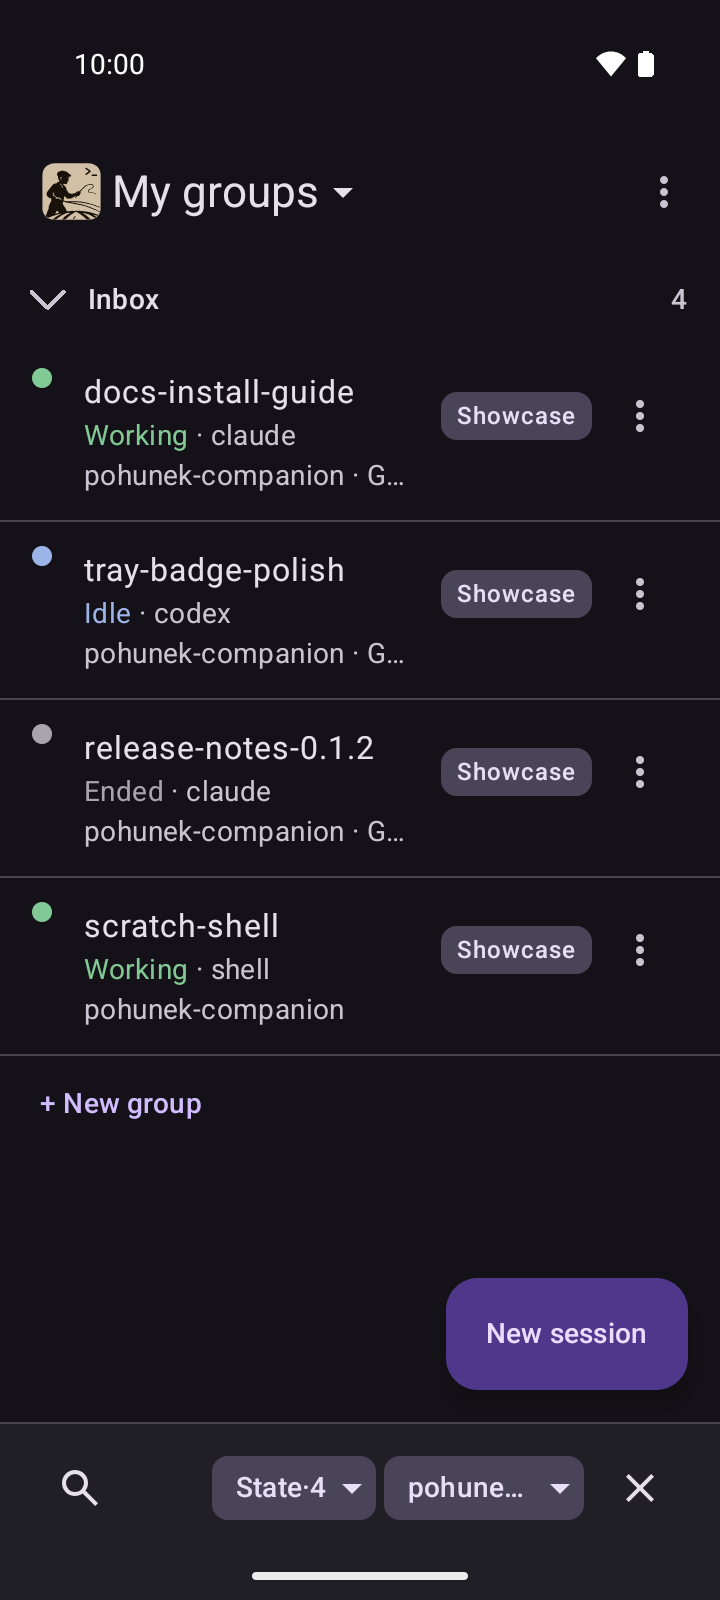
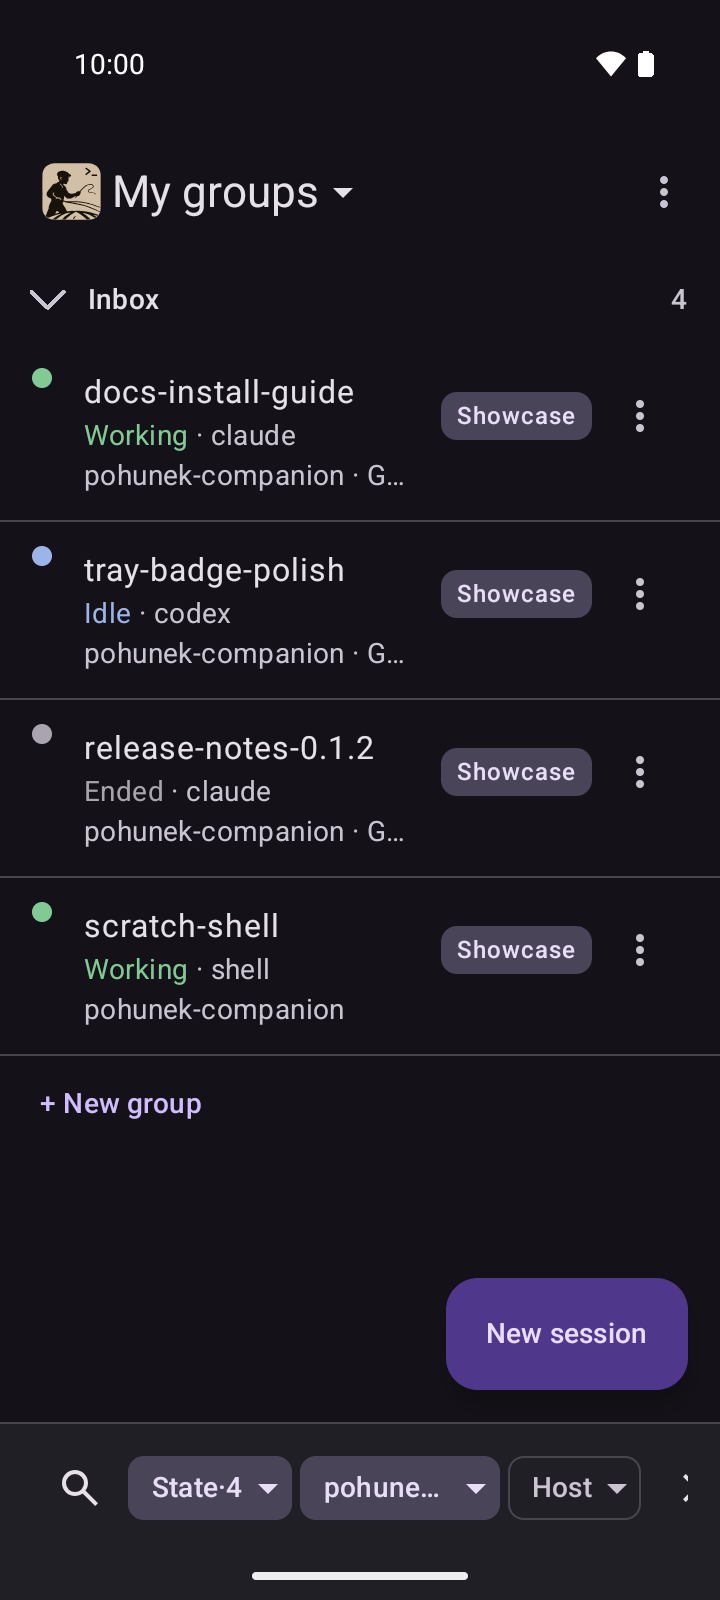
Refresh the screenshot set: two-host bar, search, project picker, terminal keys (#236)
* Capture the two-host bar, search, project picker and terminal with keys

* Relaunch the app after the search shot

* Close the project picker through All projects

* Show the second host in the session-list shot

* Let the Inbox group settle before the search shot

* Refresh the screenshot set with two hosts, search, project picker and terminal keys

* Correct the hosts and groups alt texts; check after_ hooks against shots.json

* Drop the settings shot from the public set

Changed region(s): [[0.1528, 0.9062, 0.825, 0.9688], [0.8556, 0.9062, 0.9167, 0.9375]]

diff --git a/README.md b/README.md
@@ -62,10 +62,6 @@ the app and [docs/architecture.md](docs/architecture.md) how it works.
       <img src="docs/screenshots/hosts.png" alt="Pohunek Companion Hosts screen in the dark theme: one host with its address and a Connected status, and an Add a host button." width="240" /><br />
       The hosts the app follows, each with its connection state.
     </td>
-    <td align="center" valign="top">
-      <img src="docs/screenshots/settings.png" alt="Pohunek Companion settings screen in the dark theme: a list of tunables, each with its default value." width="240" /><br />
-      Every tunable of the app in one list, with its default and a reset.
-    </td>
   </tr>
   <tr>
     <td align="center" valign="top">
